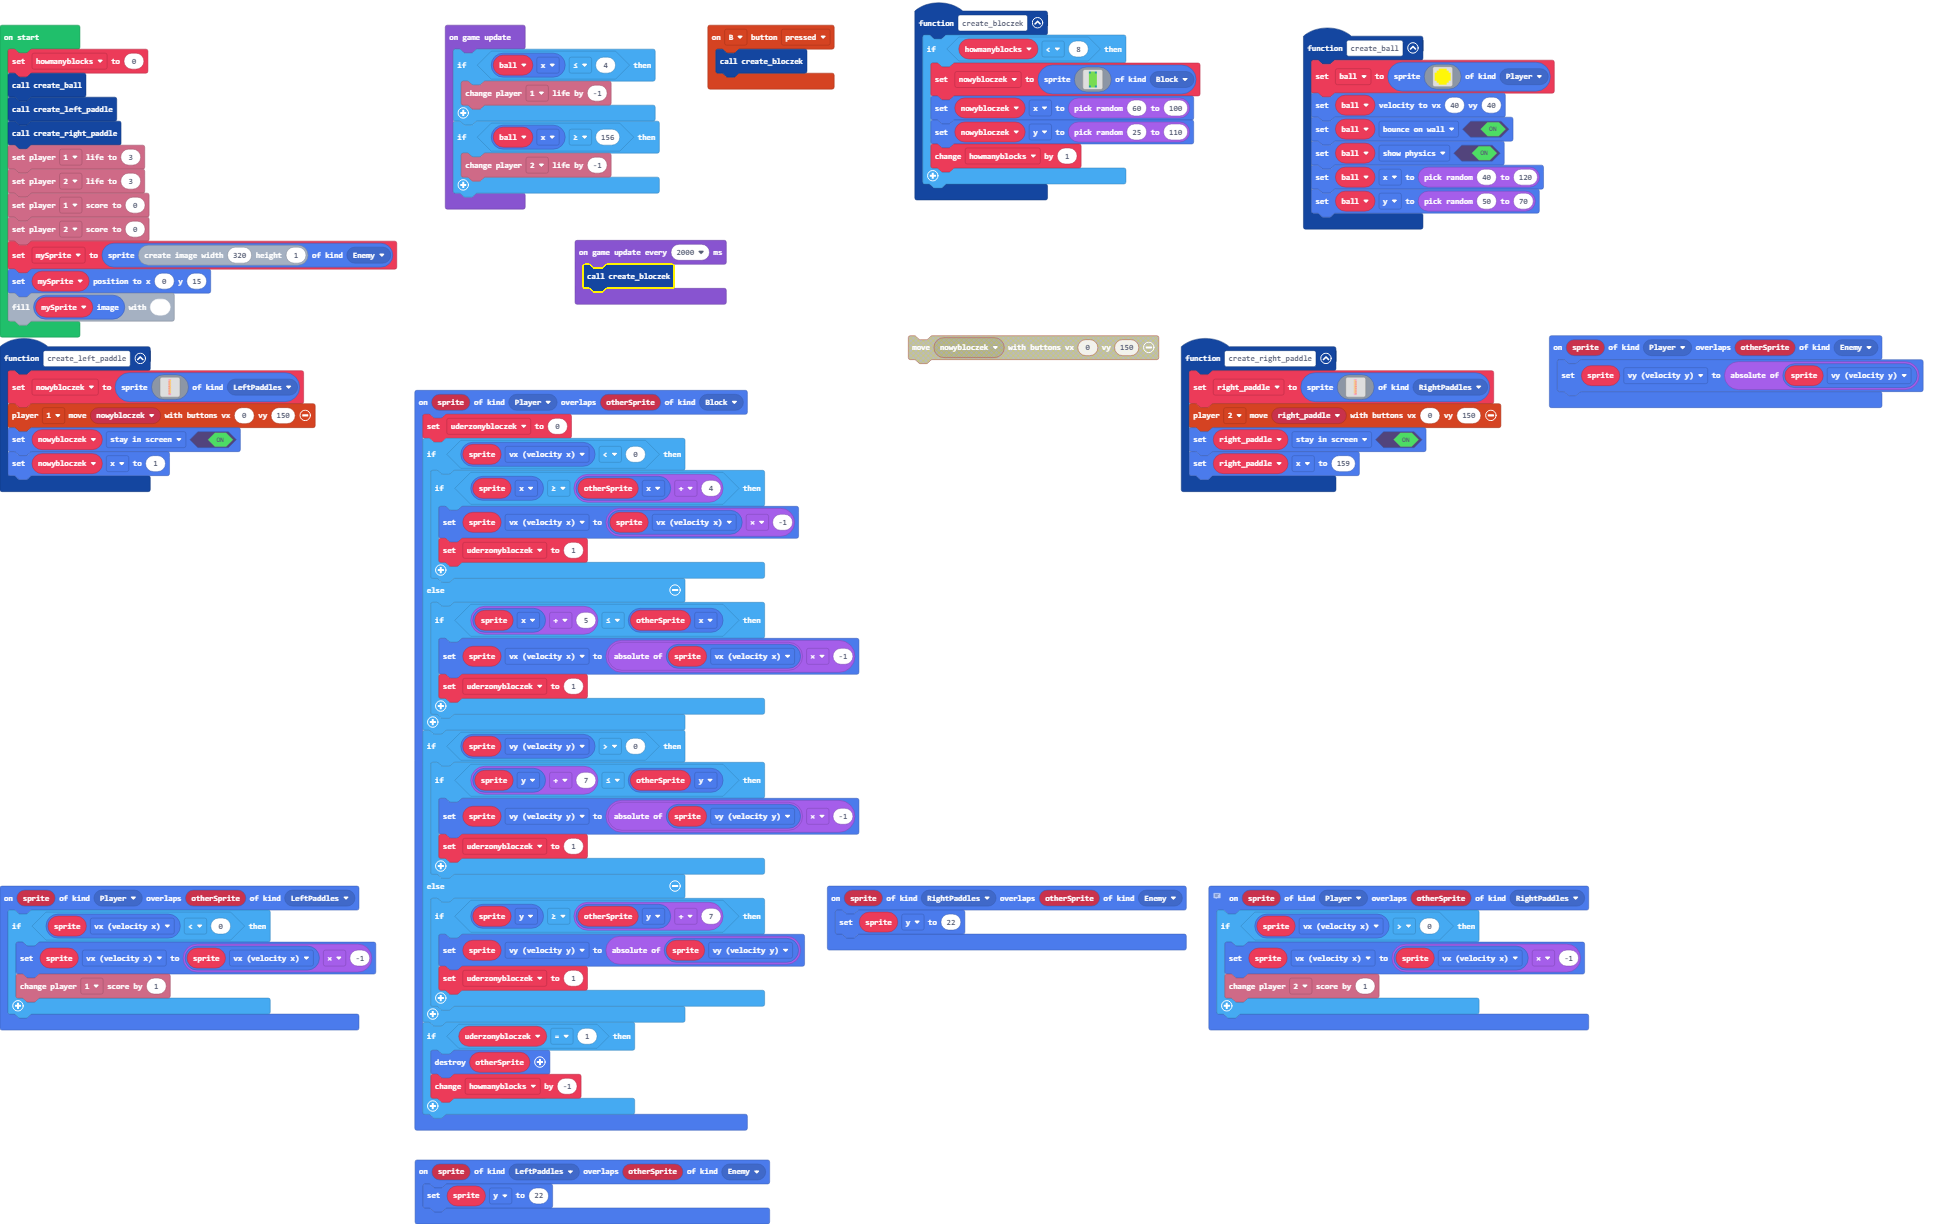
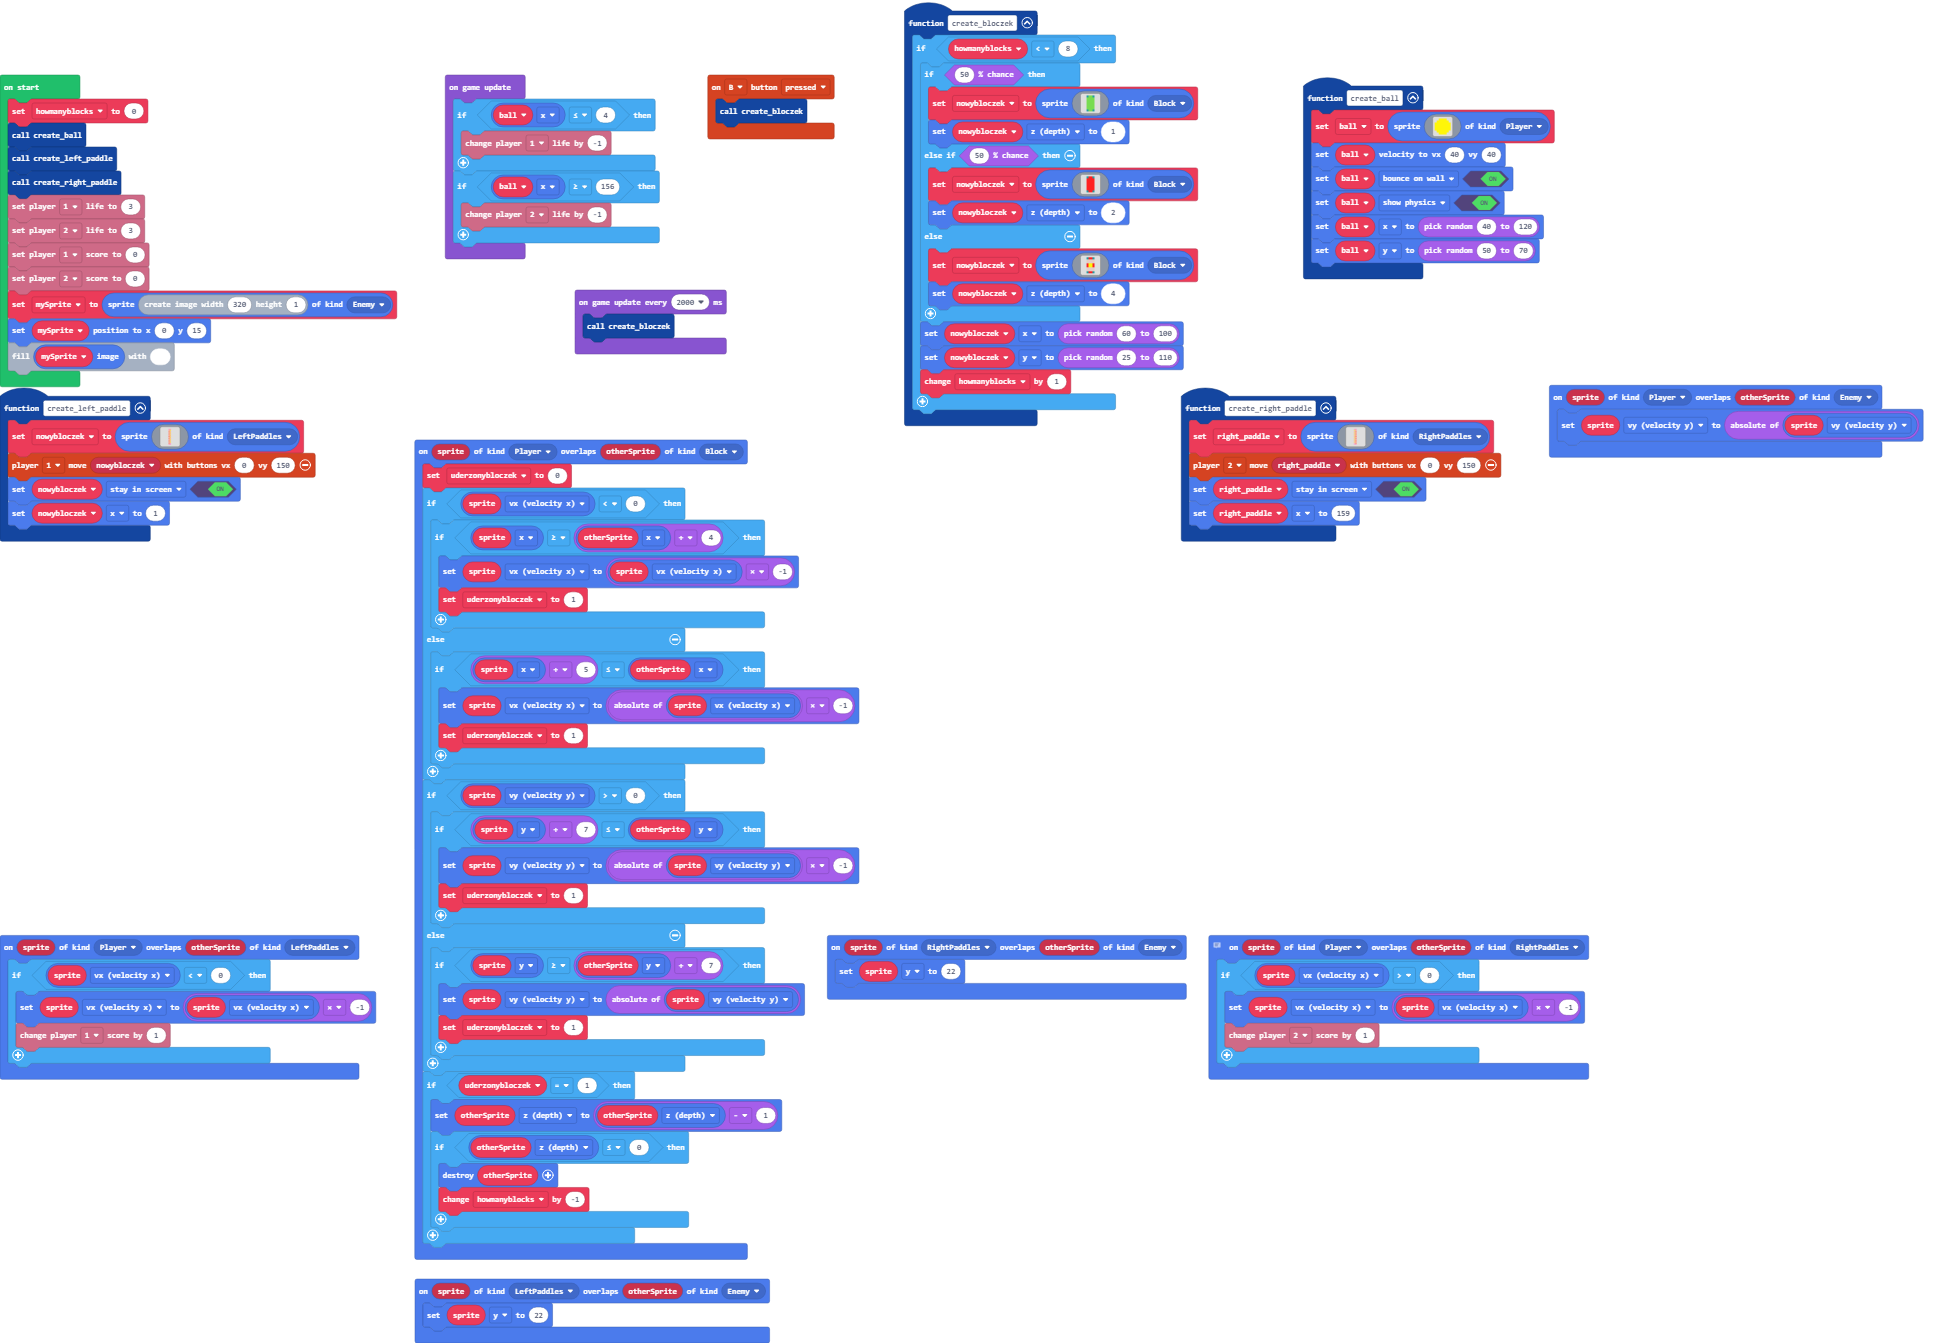
Update main.blocks, main.ts

diff --git a/main.ts b/main.ts
@@ -31,8 +31,11 @@ sprites.onOverlap(SpriteKind.Player, SpriteKind.Block, function (sprite, otherSp
         }
     }
     if (uderzonybloczek == 1) {
-        otherSprite.destroy()
-        howmanyblocks += -1
+        otherSprite.z = otherSprite.z - 1
+        if (otherSprite.z <= 0) {
+            otherSprite.destroy()
+            howmanyblocks += -1
+        }
     }
 })
 controller.B.onEvent(ControllerButtonEvent.Pressed, function () {
@@ -63,16 +66,43 @@ sprites.onOverlap(SpriteKind.Player, SpriteKind.RightPaddles, function (sprite, 
 })
 function create_bloczek () {
     if (howmanyblocks < 8) {
-        nowybloczek = sprites.create(img`
-            6 7 7 6 
-            7 7 7 7 
-            7 7 7 7 
-            7 7 7 7 
-            7 7 7 7 
-            7 7 7 7 
-            7 7 7 7 
-            6 7 7 6 
-            `, SpriteKind.Block)
+        if (Math.percentChance(50)) {
+            nowybloczek = sprites.create(img`
+                6 7 7 6 
+                7 7 7 7 
+                7 7 7 7 
+                7 7 7 7 
+                7 7 7 7 
+                7 7 7 7 
+                7 7 7 7 
+                6 7 7 6 
+                `, SpriteKind.Block)
+            nowybloczek.z = 1
+        } else if (Math.percentChance(50)) {
+            nowybloczek = sprites.create(img`
+                6 2 2 6 
+                2 2 2 2 
+                2 2 2 2 
+                2 2 2 2 
+                2 2 2 2 
+                2 2 2 2 
+                2 2 2 2 
+                6 2 2 6 
+                `, SpriteKind.Block)
+            nowybloczek.z = 2
+        } else {
+            nowybloczek = sprites.create(img`
+                6 2 2 6 
+                d d d d 
+                d d d d 
+                2 5 5 2 
+                2 5 5 2 
+                d d d d 
+                d d d d 
+                6 2 2 6 
+                `, SpriteKind.Block)
+            nowybloczek.z = 4
+        }
         nowybloczek.x = randint(60, 100)
         nowybloczek.y = randint(25, 110)
         howmanyblocks += 1
